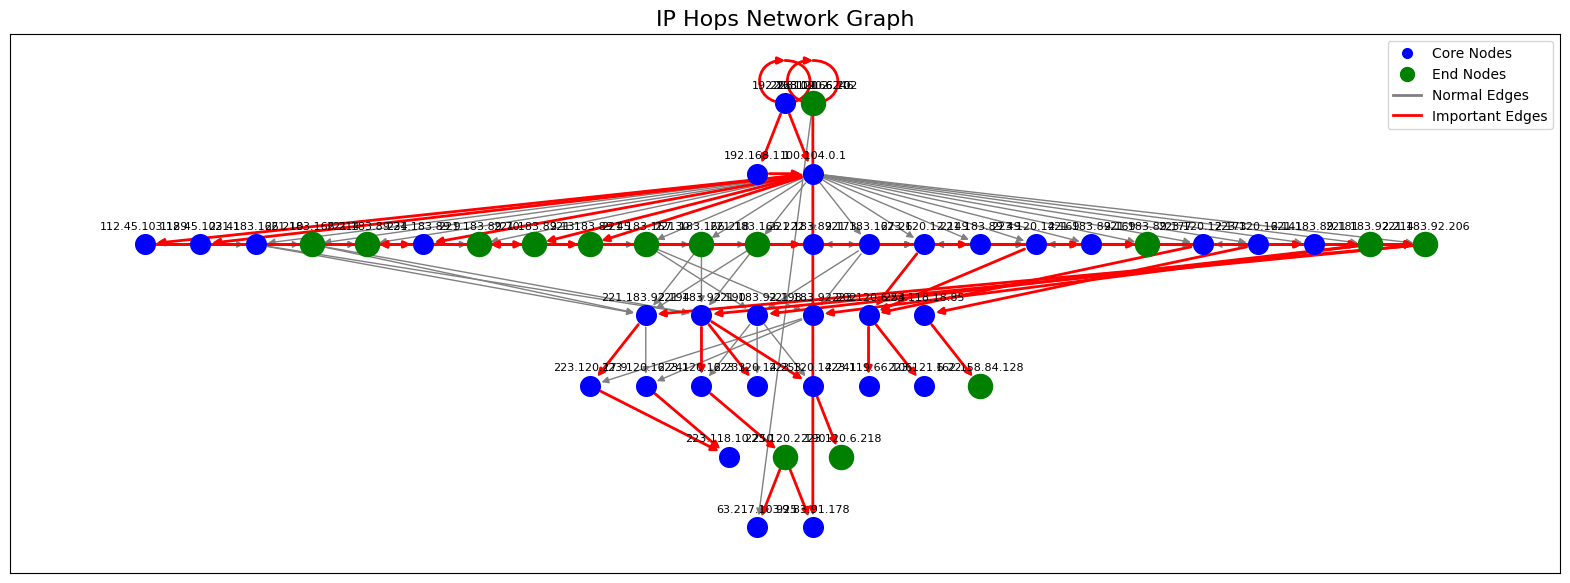
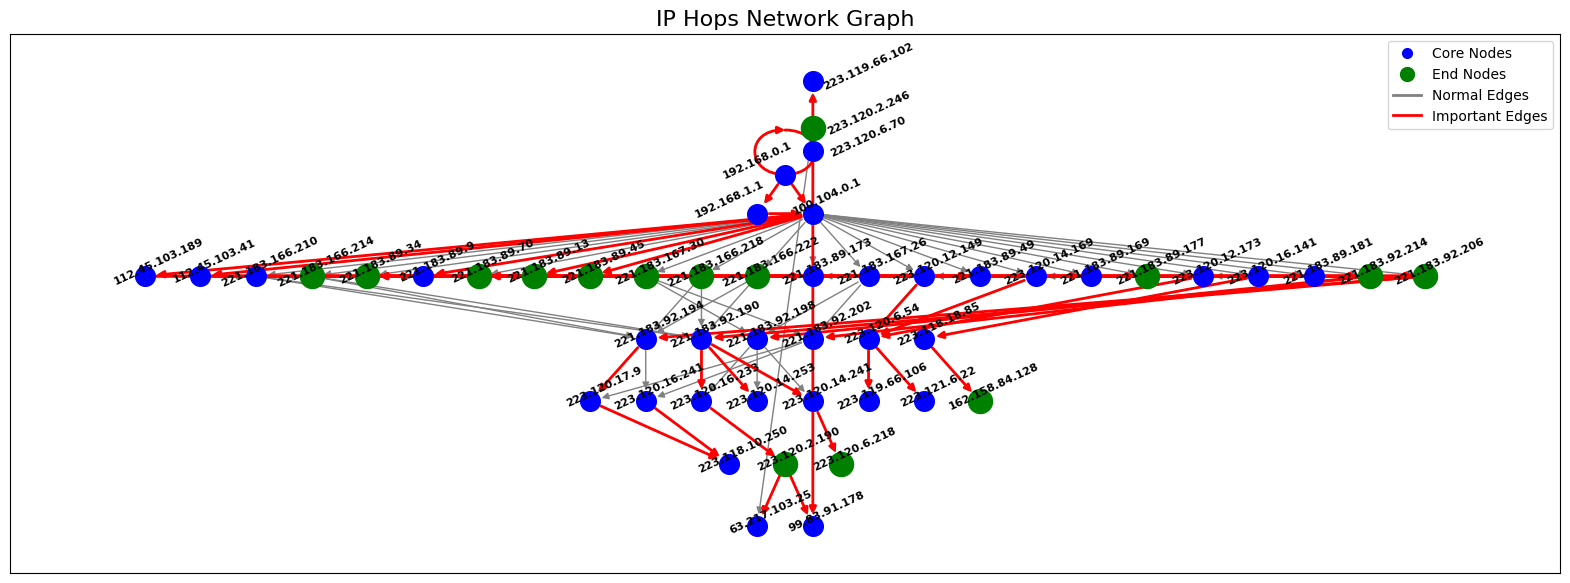
Fixed the graph

Changed region(s): [[0.0624, 0.0926, 0.9675, 0.9262], [0.5618, 0.0617, 0.593, 0.0926]]

diff --git a/src/Database/Graph/GFWLocationPlot.py b/src/Database/Graph/GFWLocationPlot.py
@@ -1,4 +1,5 @@
 import matplotlib
+import numpy as np
 
 matplotlib.use('Agg')  # 使用非交互式后端
 import matplotlib.pyplot as plt
@@ -97,13 +98,16 @@ def ip_hops_core_path(destination_db,
   end_nodes &= set(subG.nodes)
 
   # 计算层次布局
+
   hop_levels = {'192.168.0.1': 0}
   queue, current_level = ['192.168.0.1'], 1
+  visited = set(['192.168.0.1'])  # 用于记录已经访问过的节点
   while queue:
     next_queue = []
     for node in queue:
       for neighbor in subG.successors(node):
         if neighbor not in hop_levels:
+          visited.add(neighbor)
           hop_levels[neighbor] = current_level
           next_queue.append(neighbor)
     queue, current_level = next_queue, current_level + 1
@@ -121,10 +125,29 @@ def ip_hops_core_path(destination_db,
 
   # 确保所有节点有位置
   pos.update({node: (0, 0) for node in subG.nodes if node not in pos})
-  # 如果(0, 0)或(0, 1)或(1, 0)已被占用，向右移动
-  occupied_positions = {(0, 0), (0, 1), (1, 0)}
-  if any(pos.get(node) in occupied_positions for node in pos):
-    pos = {node: (x + 15, y) for node, (x, y) in pos.items()}
+  # 确保所有邻居节点的位置都被正确计算
+  for node in subG.nodes:
+    if node not in pos:
+      pos[node] = (0, 0)
+
+  # 检查所有节点，如果有任何重叠或者距离较近则移动
+  def is_too_close(pos1, pos2, min_distance=20):
+    return abs(pos1[0] -
+               pos2[0]) < min_distance and abs(pos1[1] -
+                                               pos2[1]) < min_distance
+
+  for node1, pos1 in pos.items():
+    for node2, pos2 in pos.items():
+      if node1 != node2 and is_too_close(pos1, pos2):
+        # 移动节点，避免重叠
+        if pos1[0] <= pos2[0]:
+          pos[node2] = (pos2[0] + 15, pos2[1])
+        else:
+          pos[node2] = (pos2[0] - 15, pos2[1])
+        if pos1[1] <= pos2[1]:
+          pos[node2] = (pos2[0], pos2[1] + 15)
+        else:
+          pos[node2] = (pos2[0], pos2[1] - 15)
 
   # 画图
   plt.figure(figsize=(20, 7))
@@ -160,14 +183,37 @@ def ip_hops_core_path(destination_db,
                          width=2,
                          label='Frequent Edges')
 
-  # 调整标签
-  nx.draw_networkx_labels(subG, {
-      node: (x, y + 10)
-      for node, (x, y) in pos.items()
-  },
-                          font_size=8,
-                          font_color='black')
+  # 计算标签位置并动态调整
+  for node, (x, y) in pos.items():
+    angle = 25  # 初始旋转角度
+    # 动态平移标签，避免重叠
+    offset_x = 5
+    offset_y = 5
 
+    # 特定标签移15
+    if node in ['223.120.6.70', '223.119.66.102', '223.120.2.246']:
+      offset_x += 15
+    elif node in ['192.168.0.1', '192.168.1.1']:
+      offset_x -= 15
+    elif node in ['100.104.0.1']:
+      offset_y += 2
+
+    x += offset_x
+    y += offset_y
+
+    # 动态调整角度，确保不超过90度
+    if angle > 90:
+      angle = 80
+
+    # 旋转文本并加粗标签
+    plt.annotate(node, (x, y),
+                 textcoords="offset points",
+                 xytext=(0, 5),
+                 ha='center',
+                 va='center',
+                 fontsize=8,
+                 fontweight='bold',
+                 rotation=angle)
   # 自定义图例
   legend_handles = [
       mlines.Line2D([], [],
